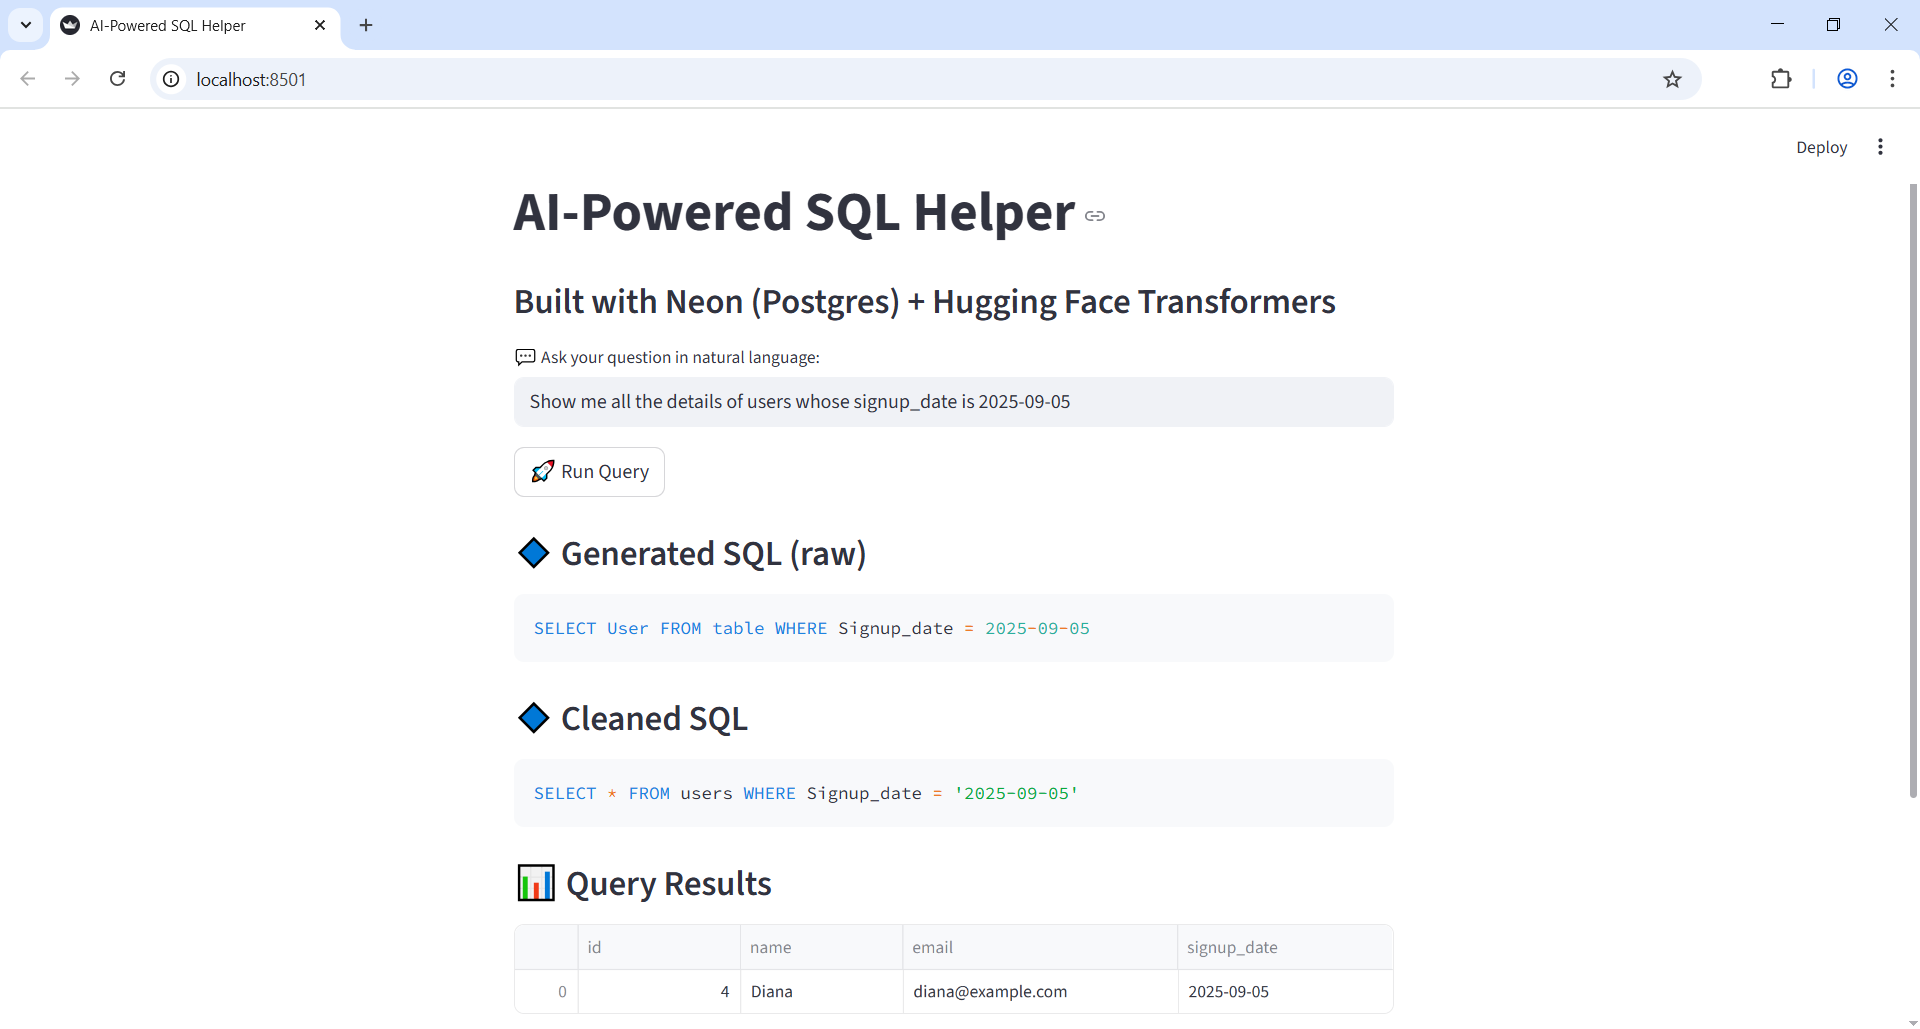
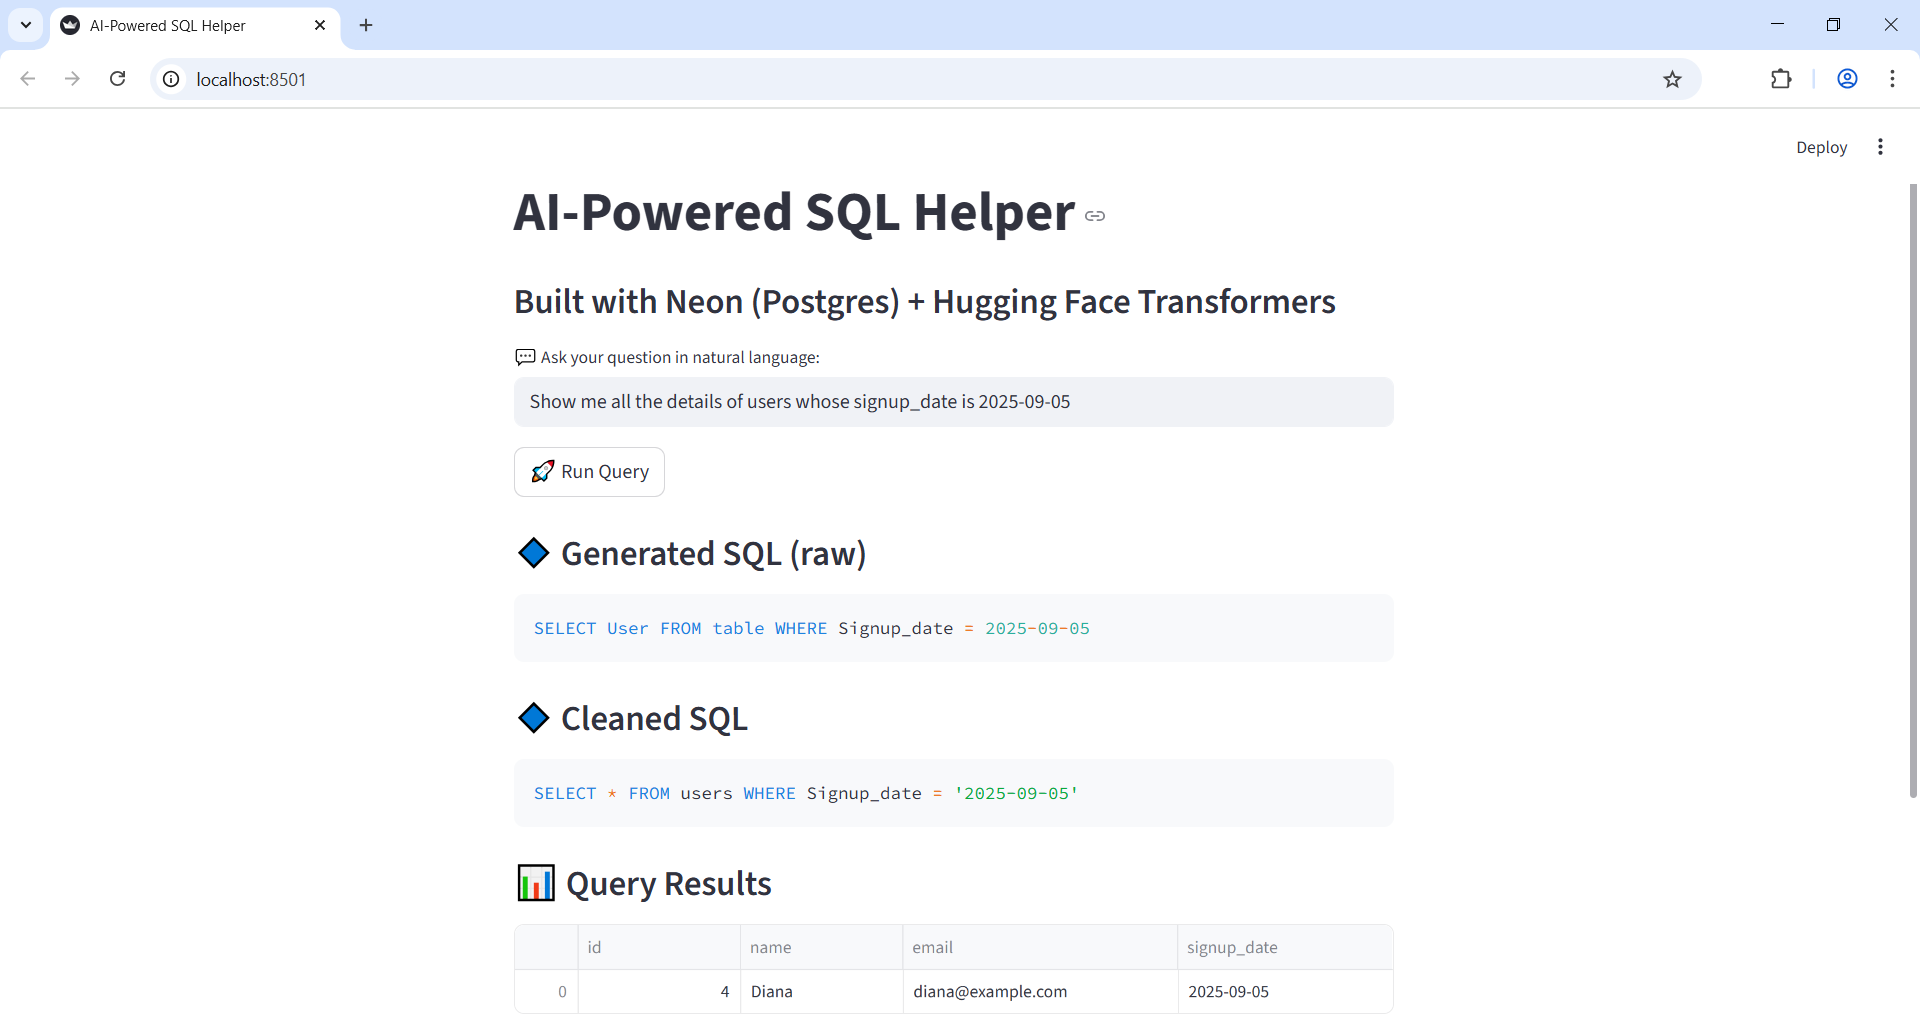
updated code for different scenarios

diff --git a/app.py b/app.py
@@ -1,87 +1,142 @@
+import os
 import re
 import pandas as pd
-from transformers import pipeline
+from dotenv import load_dotenv
 from sqlalchemy import create_engine, text
 import streamlit as st
 
-# 1. Load Hugging Face model
-@st.cache_resource
-def load_model():
-    return pipeline("text2text-generation", model="mrm8488/t5-base-finetuned-wikiSQL")
+# ----------------- Load Environment -----------------
+load_dotenv()
+DATABASE_URL = os.getenv("DATABASE_URL")
 
-nl2sql = load_model()
-
-# 2. Neon Postgres connection (replace with your actual Neon URL)
-DATABASE_URL = "postgresql://<user>:<password>@<host>/<dbname>?sslmode=require"
-engine = create_engine(DATABASE_URL)
-
-# ----------------- Helpers -----------------
-def natural_to_sql(question):
-    prompt = "translate to SQL: " + question
-    result = nl2sql(prompt, max_new_tokens=128, do_sample=False)
-    return result[0]['generated_text']
-
+# ----------------- Clean SQL Function -----------------
 def clean_sql(query: str) -> str:
-    query = query.replace("table", "users")
+    """
+    Cleans and fixes SQL generated by the Hugging Face model
+    for the `users` table with columns: id, name, email, signup_date.
+    """
+    # Force correct table name
+    query = re.sub(r"\btable\b", "users", query, flags=re.IGNORECASE)
 
+    # Synonyms mapping for columns
     synonyms = {
         "User": "name",
-        "Users": "users",
         "Signed": "signup_date",
-        "Sign": "signup_date"
+        "Sign": "signup_date",
+        "Signup": "signup_date",      # ✅ Force map signup → signup_date
+        "SignupDate": "signup_date",
+        "Date": "signup_date",
+        "ID": "id",
+        "Details": "*"               # convert SELECT Details → SELECT *
     }
+
+    # Replace synonyms in query
     for wrong, right in synonyms.items():
         query = re.sub(rf"\b{wrong}\b", right, query, flags=re.IGNORECASE)
 
-    # Expand "SELECT name" into full details
-    query = re.sub(r"SELECT\s+name", "SELECT *", query, flags=re.IGNORECASE)
+    # Expand SELECT statements
+    query = re.sub(r"SELECT\s+(Details|Name|Users?)", "SELECT *", query, flags=re.IGNORECASE)
 
-    # Handle "on/at/equals/is" → "="
+    # Handle equality words
     query = re.sub(r"\b(on|at|equals|is)\b", "=", query, flags=re.IGNORECASE)
 
-    # Fix dates → 'YYYY-MM-DD'
-    if re.search(r"\d{4}-\d{2}-\d{2}", query) and not "'" in query:
-        query = re.sub(r"(\d{4}-\d{2}-\d{2})", r"'\1'", query)
+    # Handle comparison words
+    query = re.sub(r"\bgreater than\b", ">", query, flags=re.IGNORECASE)
+    query = re.sub(r"\bless than\b", "<", query, flags=re.IGNORECASE)
+    query = re.sub(r"\bgreater or equal\b", ">=", query, flags=re.IGNORECASE)
+    query = re.sub(r"\bless or equal\b", "<=", query, flags=re.IGNORECASE)
+
+    # Wrap string literals in single quotes
+    def quote_values(match):
+        lhs, rhs = match.group(1), match.group(2)
+        if rhs.isdigit():
+            return f"{lhs}{rhs}"
+        return f"{lhs}'{rhs}'"
+    query = re.sub(r"(WHERE\s+\w+\s*=\s*)(\w+)", quote_values, query, flags=re.IGNORECASE)
+
+    # Remove meaningless WHERE clauses 
+    query = re.sub(r"WHERE\s+name\s*=\s*'users'", "", query, flags=re.IGNORECASE)
+
+    # Wrap dates in quotes
+    query = re.sub(r"(\d{4}-\d{2}-\d{2})", r"'\1'", query)
+
+    # ✅ Handle ORDER BY ascending/descending
+    order_match = re.search(r"sorted by (\w+)( ascending| descending)?", query, flags=re.IGNORECASE)
+    if order_match:
+        col_nl = order_match.group(1)
+        # Map column name properly using synonyms
+        column = synonyms.get(col_nl.capitalize(), col_nl)
+        direction_nl = order_match.group(2)
+        if direction_nl:
+            direction_nl = direction_nl.strip().upper()
+            direction = "DESC" if direction_nl == "DESCENDING" else "ASC"
+        else:
+            direction = "ASC"  # Default ascending if not specified
+
+        # Remove leftover "sorted by ..." text
+        query = re.sub(r"(WHERE\s+.*sorted by.*|sorted by.*)", "", query, flags=re.IGNORECASE)
+        query = f"{query.strip()} ORDER BY {column} {direction}".strip()
+
+    # Clean extra spaces and ensure correct table reference
+    query = re.sub(r"\s+", " ", query).strip()
+    query = re.sub(r"FROM\s+\w+", "FROM users", query, flags=re.IGNORECASE)
 
     return query
 
+# ----------------- Run Query Function -----------------
 def run_query(sql_query):
+    engine = create_engine(DATABASE_URL)
     with engine.connect() as conn:
         result = conn.execute(text(sql_query))
         rows = result.fetchall()
         columns = result.keys()
         return pd.DataFrame(rows, columns=columns)
 
-# ----------------- Streamlit UI -----------------
-st.set_page_config(page_title="AI-Powered SQL Helper", page_icon="YB", layout="centered")
+# ----------------- Hugging Face Model Loader -----------------
+@st.cache_resource(show_spinner=False)
+def load_model():
+    from transformers import pipeline
+    return pipeline("text2text-generation", model="mrm8488/t5-base-finetuned-wikiSQL")
 
-st.title(" AI-Powered SQL Helper")
-st.markdown(" ### Built with **Neon (Postgres)** + **Hugging Face Transformers**")
+# ----------------- Natural-to-SQL Function -----------------
+def natural_to_sql(question: str, nl2sql_model) -> str:
+    prompt = "translate to SQL: " + question
+    result = nl2sql_model(prompt, max_new_tokens=128, do_sample=False)
+    raw_sql = result[0]["generated_text"]
+    fixed_sql = clean_sql(raw_sql)
+    return fixed_sql
+
+# ----------------- Streamlit UI -----------------
+st.set_page_config(page_title="YB's AI-Powered SQL Helper", page_icon="💻", layout="centered")
+
+st.title(" YB's AI-Powered SQL Helper")
+st.markdown("### Built with **Neon (Postgres)** + **Hugging Face Transformers**")
 
 question = st.text_input(
     "💬 Ask your question in natural language:",
-    placeholder="Write your question e.g., Show me all the details of users"
+    placeholder="e.g., Show all users sorted by signup date descending"
 )
 
 if st.button("🚀 Run Query"):
-    with st.spinner("Generating SQL and fetching results..."):
-        raw_sql = natural_to_sql(question)
-        st.subheader("🔹 Generated SQL (raw)")
-        st.code(raw_sql, language="sql")
+    if not question.strip():
+        st.warning("Please enter a question!")
+    else:
+        with st.spinner("Loading model and generating SQL…"):
+            try:
+                nl2sql_model = load_model()
+                fixed_sql = natural_to_sql(question, nl2sql_model)
 
-        fixed_sql = clean_sql(raw_sql)
-        st.subheader("🔹 Cleaned SQL")
-        st.code(fixed_sql, language="sql")
+                st.subheader("🔹 Cleaned SQL")
+                st.code(fixed_sql, language="sql")
 
-        try:
-            df = run_query(fixed_sql)
-            if not df.empty:
-                st.subheader("📊 Query Results")
-                st.dataframe(df, use_container_width=True)  # responsive
-            else:
-                st.warning("⚠ No results found.")
-        except Exception as e:
-            st.error(f"❌ Error: {e}")
+                df = run_query(fixed_sql)
+                if not df.empty:
+                    st.subheader("📊 Query Results")
+                    st.dataframe(df, use_container_width=True)
+                else:
+                    st.warning("⚠ No results found.")
+            except Exception as e:
+                st.error(f"❌ Error: {e}")
 
 st.markdown("---")
-st.caption("Made with ❤ **Yaaseen Basit** using Streamlit, Neon, and Hugging Face")
+st.caption("Made with ❤ by **Yaaseen Basit** using Streamlit, Neon, and Hugging Face")
